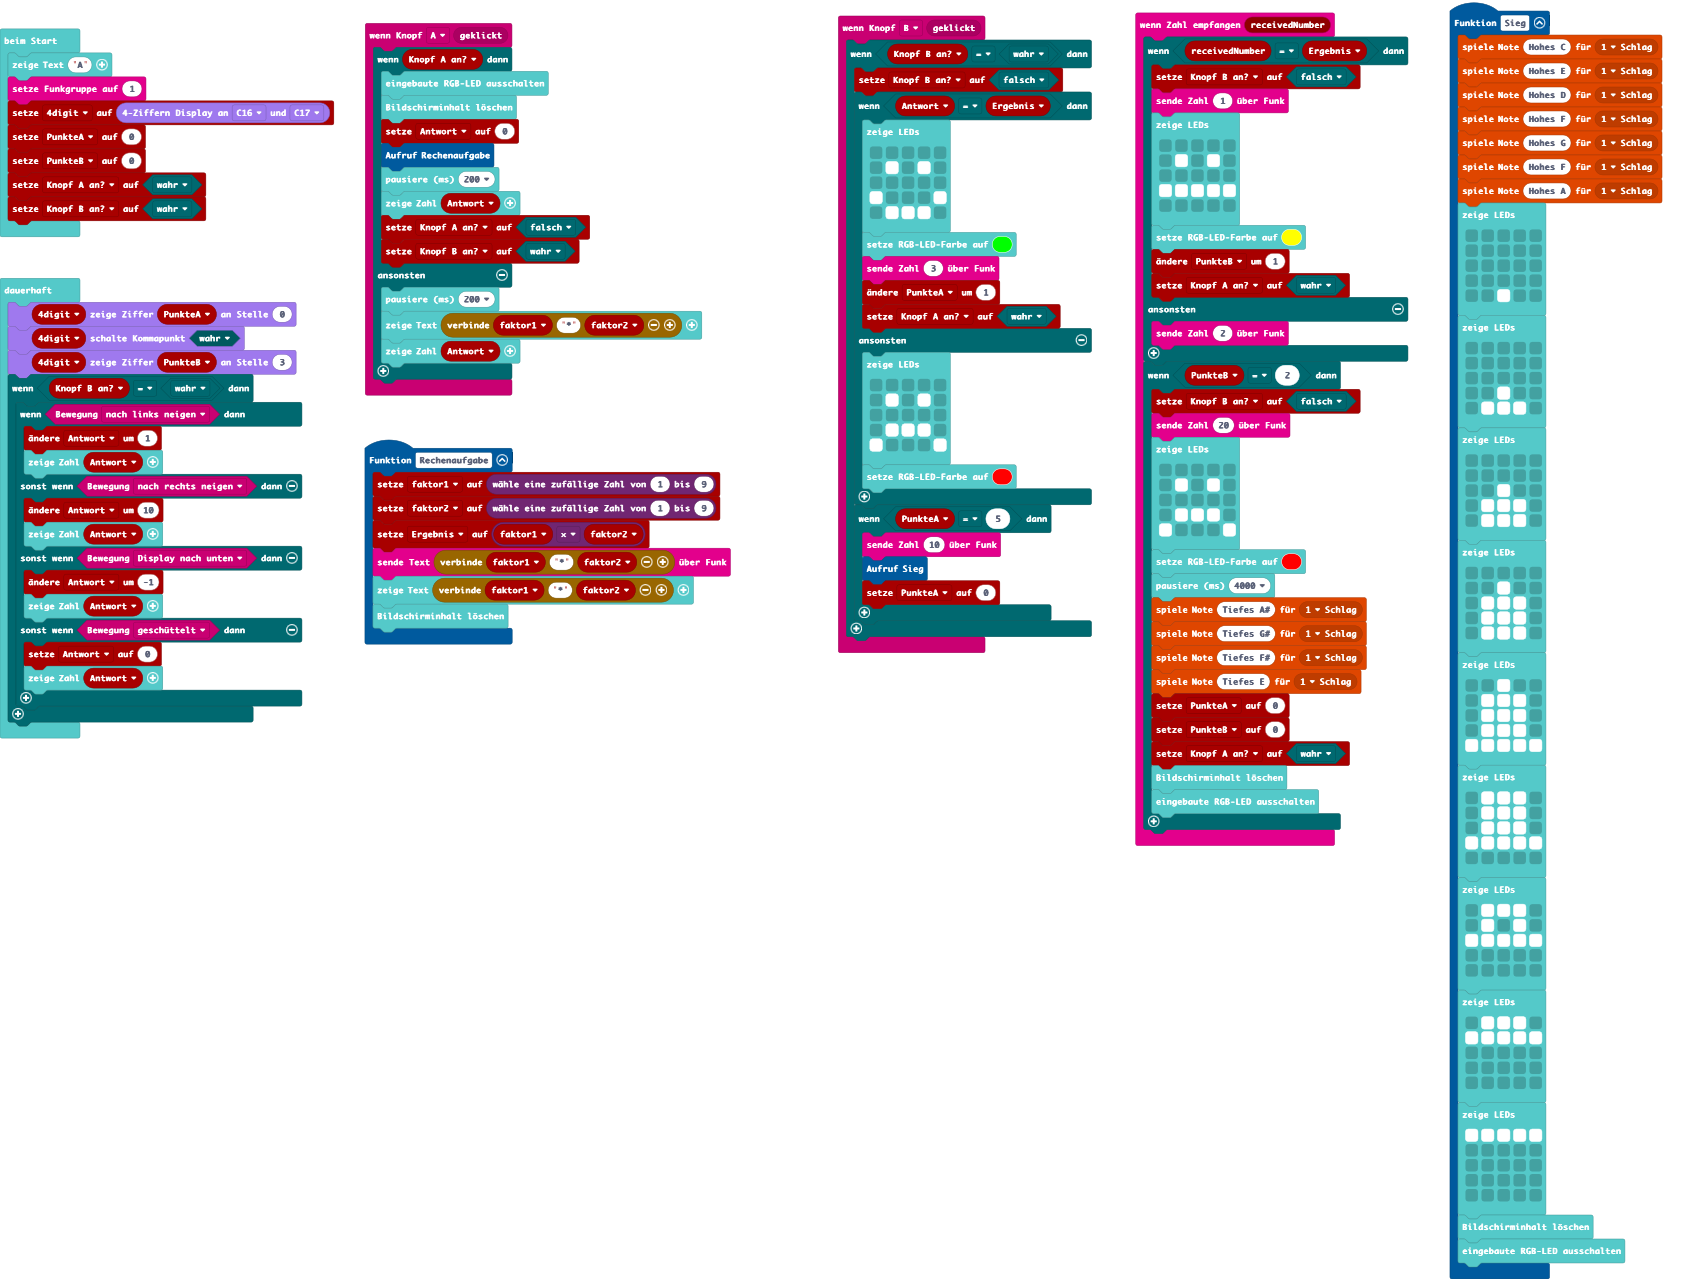
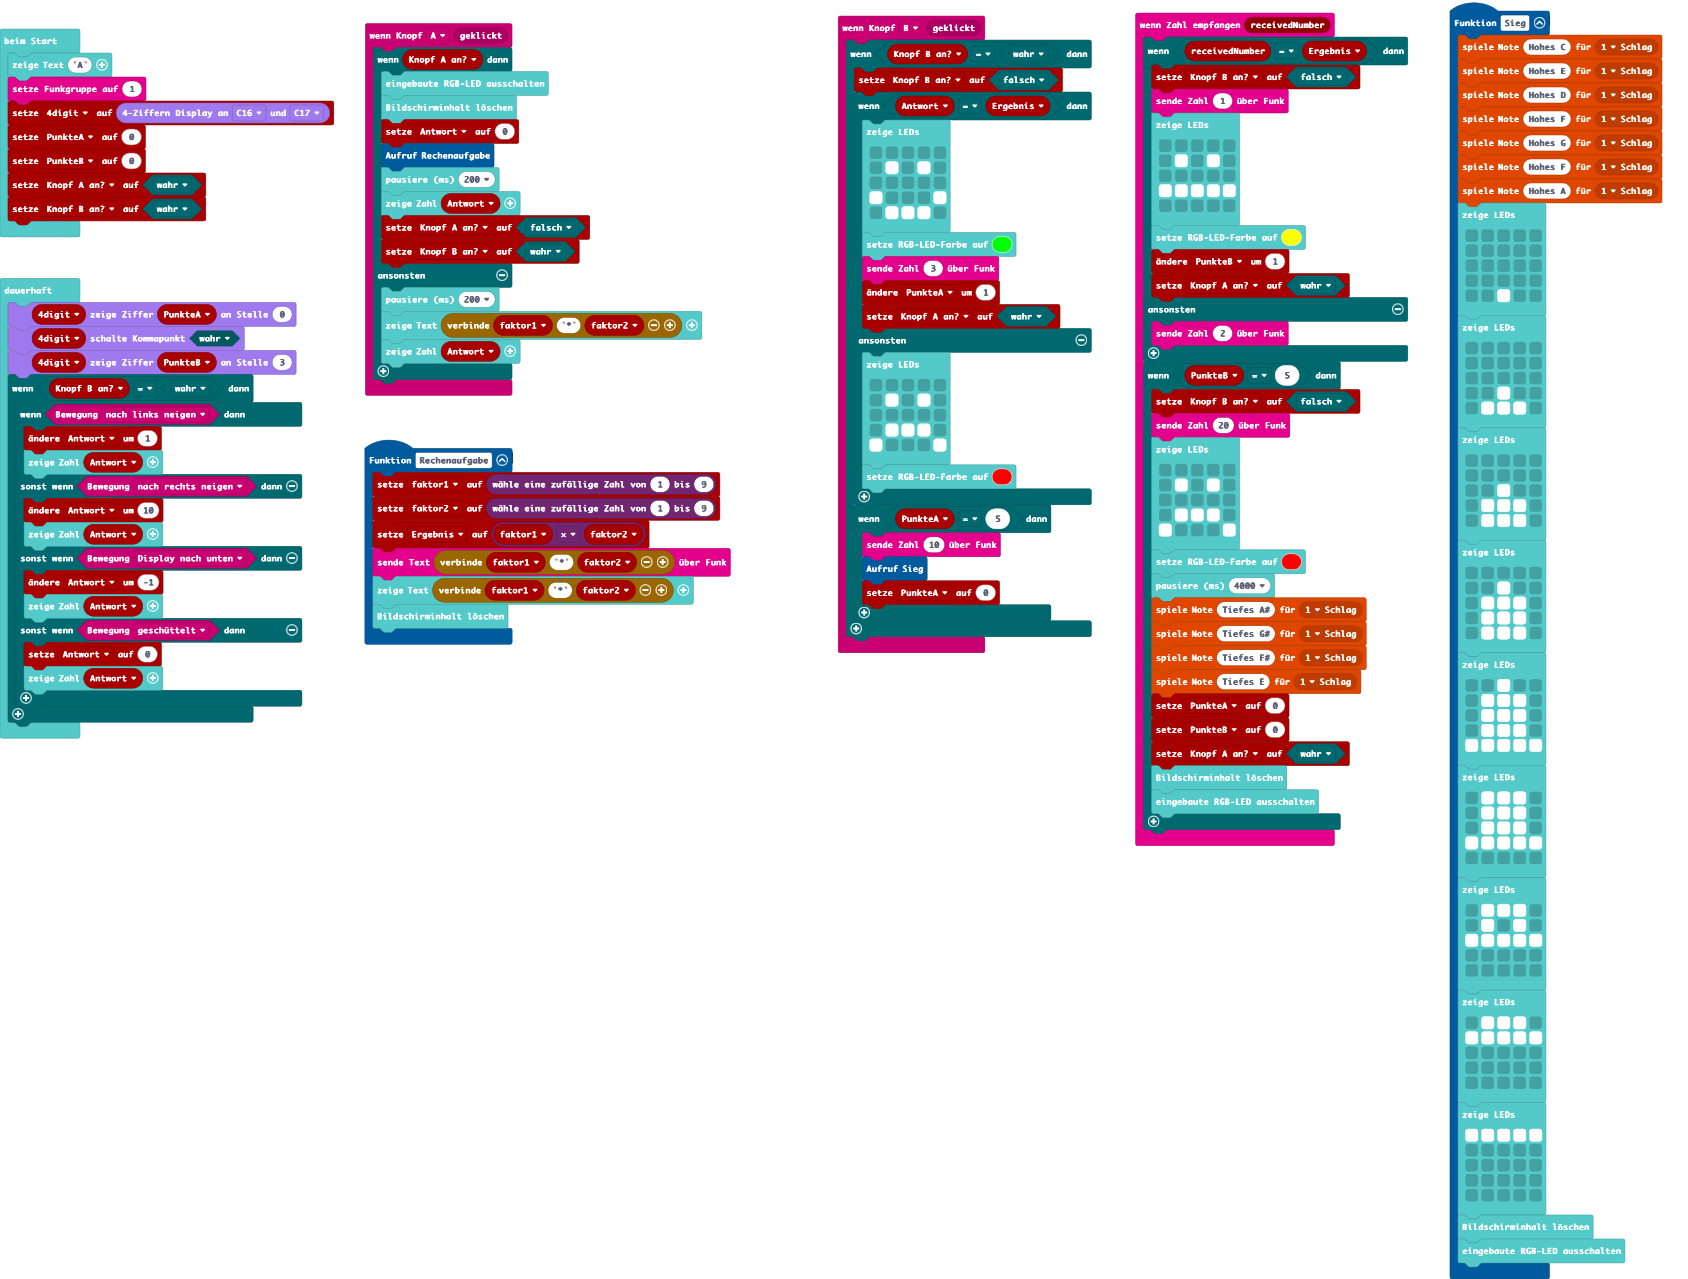
Aktualisiere main.blocks, main.ts

Changed region(s): [[0.7701, 0.0305, 0.8009, 0.061], [0.7085, 0.061, 0.7393, 0.0915]]

diff --git a/main.ts b/main.ts
@@ -19,7 +19,7 @@ radio.onReceivedNumber(function (receivedNumber) {
     } else {
         radio.sendNumber(2)
     }
-    if (PunkteB == 2) {
+    if (PunkteB == 5) {
         Knopf_B_an = false
         radio.sendNumber(20)
         basic.showLeds(`
